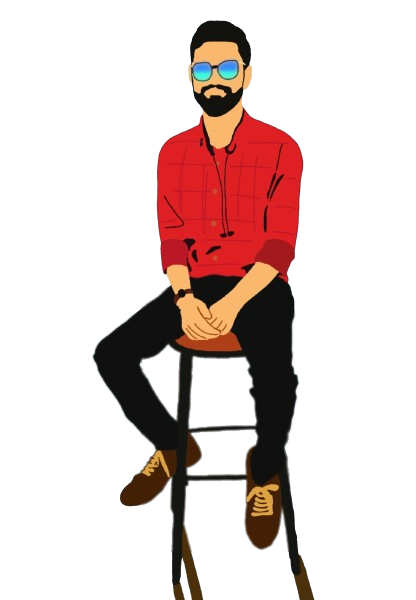
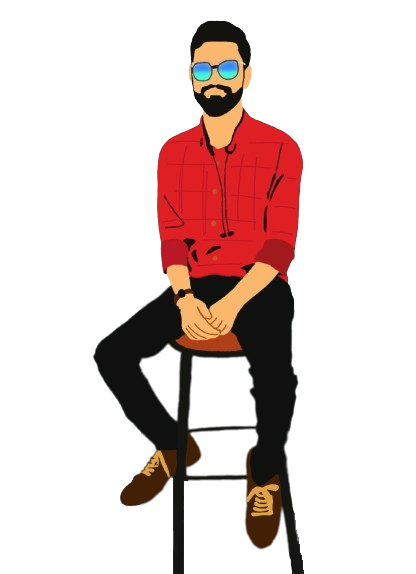
about ui modified

Changed region(s): [[0.2188, 0.0296, 0.75, 1.0], [0.375, 0.2369, 0.4062, 0.2962]]

diff --git a/src/app/pages/about/about.component.html b/src/app/pages/about/about.component.html
@@ -4,8 +4,9 @@
 <div class="row">
   <!--      image section-->
   <div class="col-lg-6" id="img-container">
-    <img class="user-img" src="assets/images/gsimg.webp">
-<!--    <img class="user-img" src="assets/images/gsimg2.webp">-->
+    <!--    <img class="user-img" src="assets/images/gsimg.webp">-->
+    <img class="user-img" src="assets/images/gsimg2.webp">
+    <hr class="horizontal-line">
   </div>
 
   <!--      description section-->

diff --git a/src/app/pages/about/about.component.css b/src/app/pages/about/about.component.css
@@ -15,6 +15,14 @@
   height: 520px;
 }
 
+.horizontal-line {
+  width: 550px;
+  height: 1px;
+  background: rgba(0, 0, 0, 0.3);
+  box-shadow: 0 8px 10px rgba(0, 0, 0, 1);
+  margin-top: 0;
+}
+
 .text-container {
   display: flex;
   flex-direction: column;
